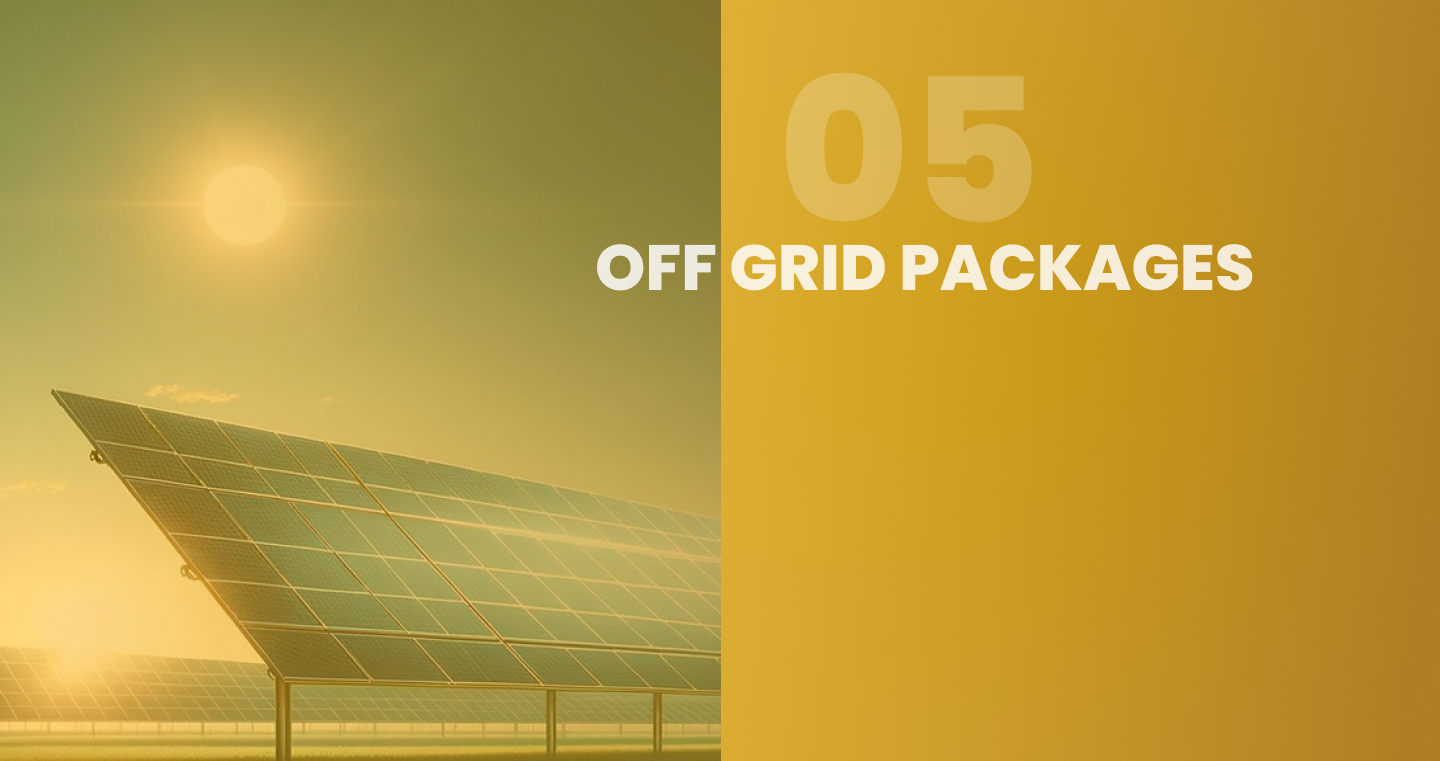
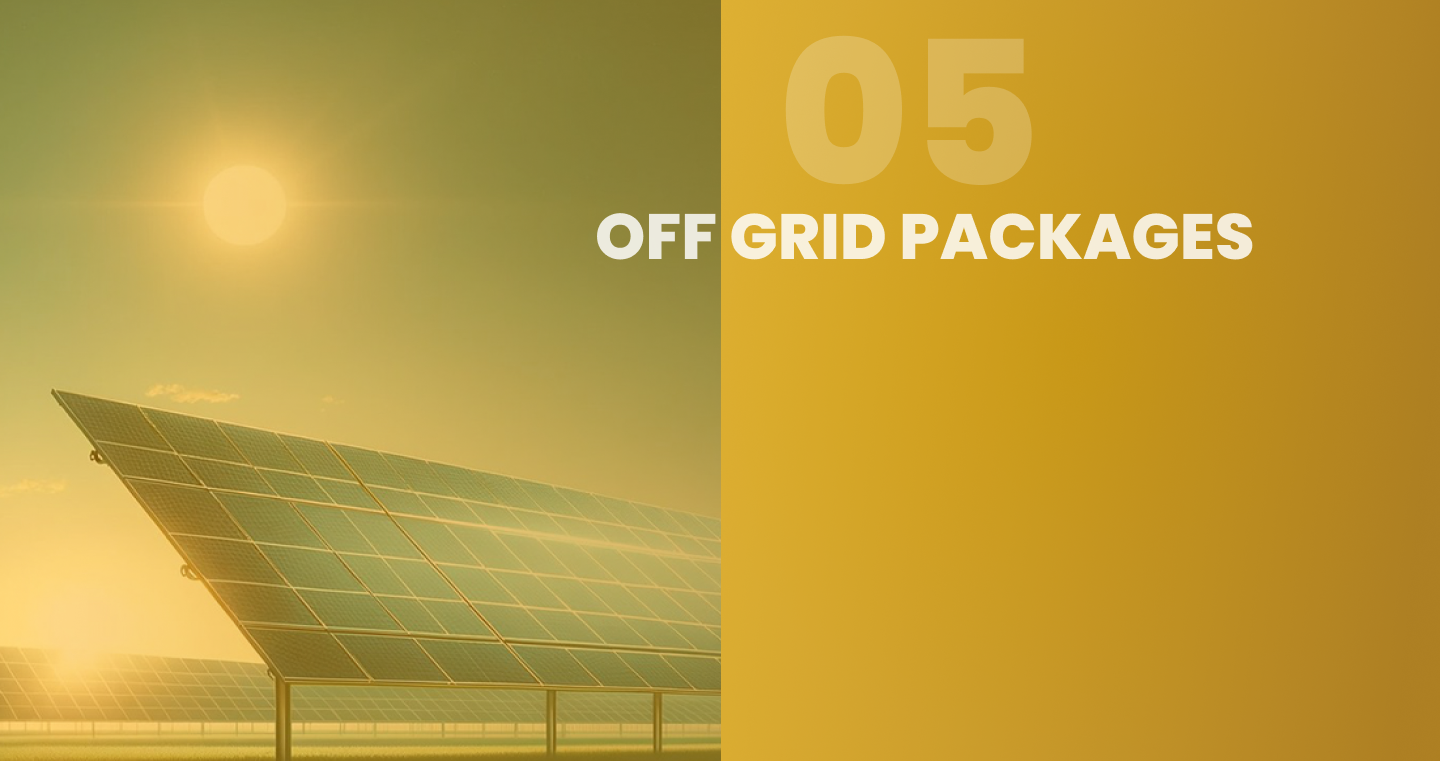
lithium batter condition

Changed region(s): [[0.4062, 0.0302, 0.875, 0.3929]]

diff --git a/index.html b/index.html
@@ -185,7 +185,7 @@
               <b>Market Price : </b>
               <span style="text-decoration: line-through">2,25,000</span>
             </p>
-            <p><b>Our Price : </b> 1,50,000</p>
+            <p class="ourprice"><b>Our Price : </b> 1,50,000</p>
           </div>
           <div class="subsidyprice">
             <p>Instant Subsidy : 75,000</p>
@@ -201,7 +201,7 @@
               <b>Market Price : </b>
               <span style="text-decoration: line-through">3,35,000</span>
             </p>
-            <p><b>Our Price :</b>2,25,000</p>
+            <p class="ourprice"><b>Our Price :</b>2,25,000</p>
           </div>
           <div class="subsidyprice">
             <p>Instant Subsidy : 1,10,000</p>
@@ -217,7 +217,7 @@
               <b>Market Price : </b>
               <span style="text-decoration: line-through">2,75,000</span>
             </p>
-            <p><b>Our Price : </b>1,75,000</p>
+            <p class="ourprice"><b>Our Price : </b>1,75,000</p>
           </div>
           <div class="subsidyprice">
             <p>Instant Subsidy : 1,00,000</p>
@@ -233,7 +233,7 @@
               <b>MarketnPrice : </b>
               <span style="text-decoration: line-through">4,97,000</span>
             </p>
-            <p><b>Our Price : </b>3,40,000</p>
+            <p class="ourprice"><b>Our Price : </b>3,40,000</p>
           </div>
           <div class="subsidyprice">
             <p>Instant Subsidy : 1,57,000</p>
@@ -249,7 +249,7 @@
               <b>Market Price : </b>
               <span style="text-decoration: line-through">6,00,000</span>
             </p>
-            <p><b>Our Price : </b>4,00,000</p>
+            <p class="ourprice"><b>Our Price : </b>4,00,000</p>
           </div>
           <div class="subsidyprice">
             <p>Instant Subsidy : 2,00,000</p>
@@ -293,10 +293,13 @@
               <b>Market Price : </b>
               <span style="text-decoration: line-through">1,25,000</span>
             </p>
-            <p><b>Our Price : </b>1,15,000</p>
+            <p class="ourprice"><b>Our Price : </b>1,15,000</p>
           </div>
           <div class="subsidyprice">
             <p>Instant Subsidy : 10,000</p>
+          </div>
+          <div class="note">
+            <p>** For Lithium Battery Price May Vary</p>
           </div>
         </div>
         <div class="slide1">
@@ -309,10 +312,13 @@
               <b>Market Price : </b>
               <span style="text-decoration: line-through">2,45,000</span>
             </p>
-            <p><b>Our Price : </b>1,75,000</p>
+            <p class="ourprice"><b>Our Price : </b>1,75,000</p>
           </div>
           <div class="subsidyprice">
             <p>Instant Subsidy : 70,000</p>
+          </div>
+          <div class="note" style="width: 100%">
+            <p>** For Lithium Battery Price May Vary</p>
           </div>
         </div>
         <div class="slide1">
@@ -325,10 +331,13 @@
               <b>Market Price : </b>
               <span style="text-decoration: line-through">3,30,000</span>
             </p>
-            <p><b>Our Price : </b>2,30,000</p>
+            <p class="ourprice"><b>Our Price : </b>2,30,000</p>
           </div>
           <div class="subsidyprice">
             <p>Instant Subsidy : 1,00,000</p>
+          </div>
+          <div class="note" style="width: 100%">
+            <p>** For Lithium Battery Price May Vary</p>
           </div>
         </div>
         <div class="slide1">
@@ -341,10 +350,13 @@
               <b>Market Price : </b>
               <span style="text-decoration: line-through">5,70,000</span>
             </p>
-            <p><b>Our Price : </b>3,75,000</p>
+            <p class="ourprice"><b>Our Price : </b>3,75,000</p>
           </div>
           <div class="subsidyprice">
             <p>Instant Subsidy : 1,95,000</p>
+          </div>
+          <div class="note" style="width: 100%">
+            <p>** For Lithium Battery Price May Vary</p>
           </div>
         </div>
         <div class="dots1"></div>
@@ -431,7 +443,7 @@
           >
         </div>
       </div>
-      <div class="copyright">Sowrya Prabhav © Allrights Reserved 2024</div>
+      <div class="copyright">Sowrya Prabhav © Allrights Reserved 2020</div>
     </div>
 
     <!--SCRIPTS-->

diff --git a/css/home.css b/css/home.css
@@ -616,10 +616,13 @@ html {
   font-size: 1vw;
   color: #022f02;
   padding-left: 5px;
-  padding-right: 5px;
+  padding-right: 10px;
   padding-top: 5px;
 }
 
+.ourprice {
+  color: #eeff00;
+}
 .subsidyprice {
   background-color: #036203;
   color: #fff;
@@ -686,10 +689,10 @@ html {
 /* Slider */
 .slider1 {
   position: absolute;
-  top: 20.5vw;
+  top: 19vw;
   left: 55vw;
   width: 35vw;
-  height: 31.5vw;
+  height: 32.5vw;
   overflow: hidden;
 }
 
@@ -700,6 +703,18 @@ html {
   transition: all 0.8s ease-in-out;
 
   overflow: hidden;
+}
+
+.note {
+  width: 100%;
+}
+
+.note p {
+  text-align: center;
+  font-family: "Poppins", sans-serif;
+  font-weight: 400;
+  font-size: 0.8vw;
+  color: rgb(231, 233, 234);
 }
 
 .slide1 img {
@@ -733,7 +748,7 @@ html {
 .dots1 {
   z-index: 100;
   position: absolute;
-  bottom: 7px;
+  bottom: 0px;
 
   left: 50%;
   transform: translateX(-50%);

diff --git a/css/home-res.css b/css/home-res.css
@@ -350,7 +350,7 @@
 
   .slider {
     position: absolute;
-    top: 132vw;
+    top: 130vw;
     left: 8vw;
     width: 90vw;
     height: 93vw;
@@ -391,10 +391,10 @@
 
   .slider1 {
     position: absolute;
-    top: 132vw;
+    top: 125vw;
     left: 8vw;
     width: 90vw;
-    height: 93vw;
+    height: 96vw;
 
     overflow: hidden;
   }
@@ -403,6 +403,11 @@
     width: 70vw;
     height: auto;
     border-radius: 10px;
+  }
+
+  .note p {
+    font-size: 3vw;
+    margin-left: -15vw;
   }
 
   .dots1 {
